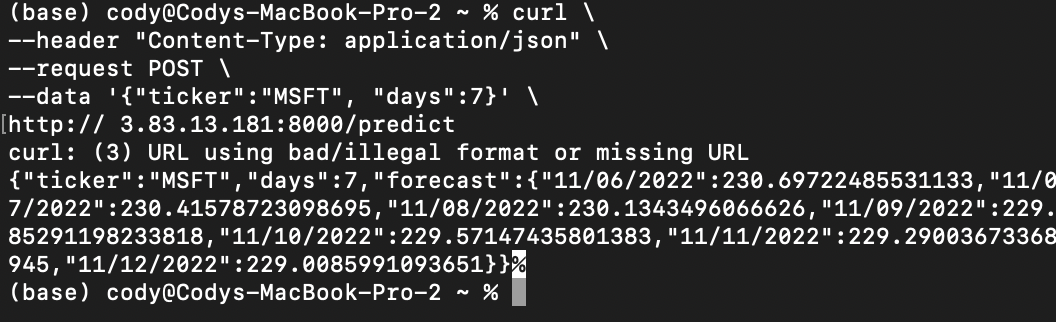
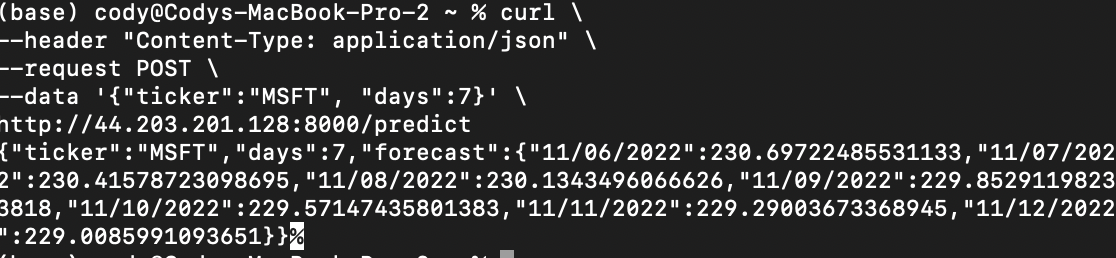
README Image Fixes

diff --git a/README.md b/README.md
@@ -6,7 +6,7 @@ curl \
 --header "Content-Type: application/json" \
 --request POST \
 --data '{"ticker":"MSFT", "days":7}' \
-http:// 3.83.13.181:8000/predict
+http://44.203.201.128:8000/predict
 
 ## Images
 
